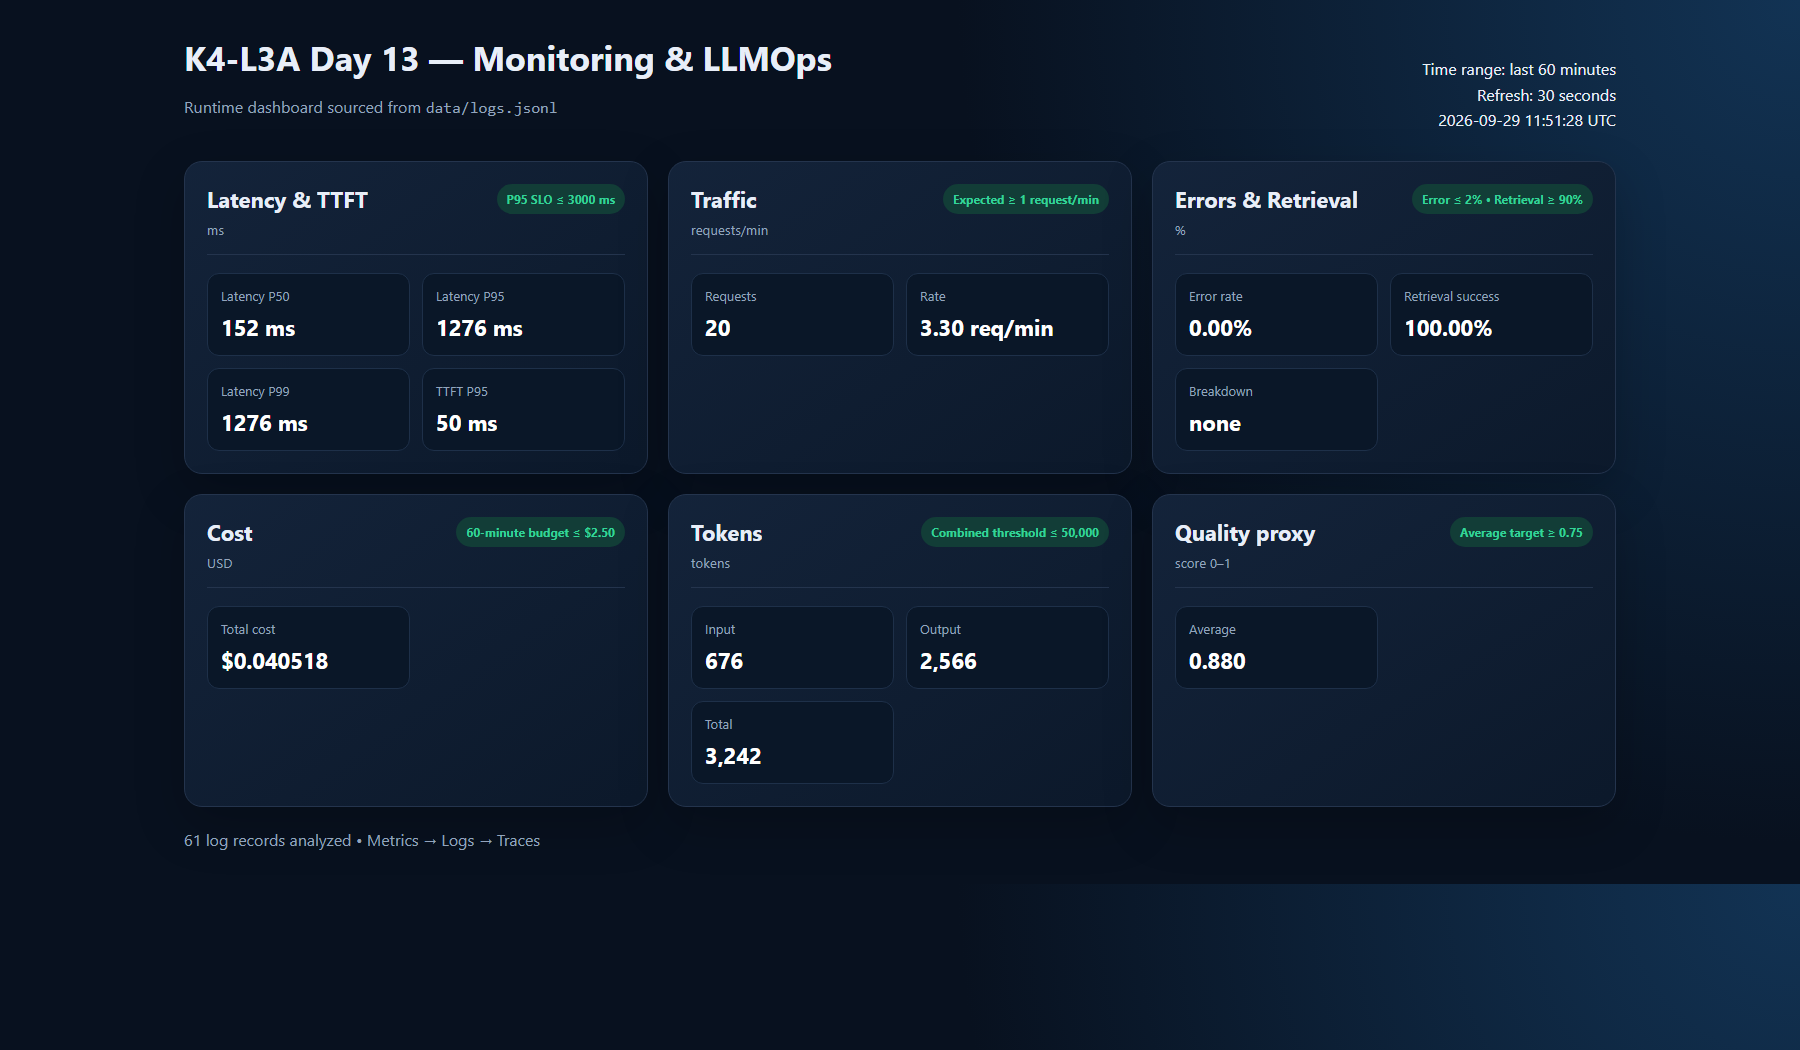
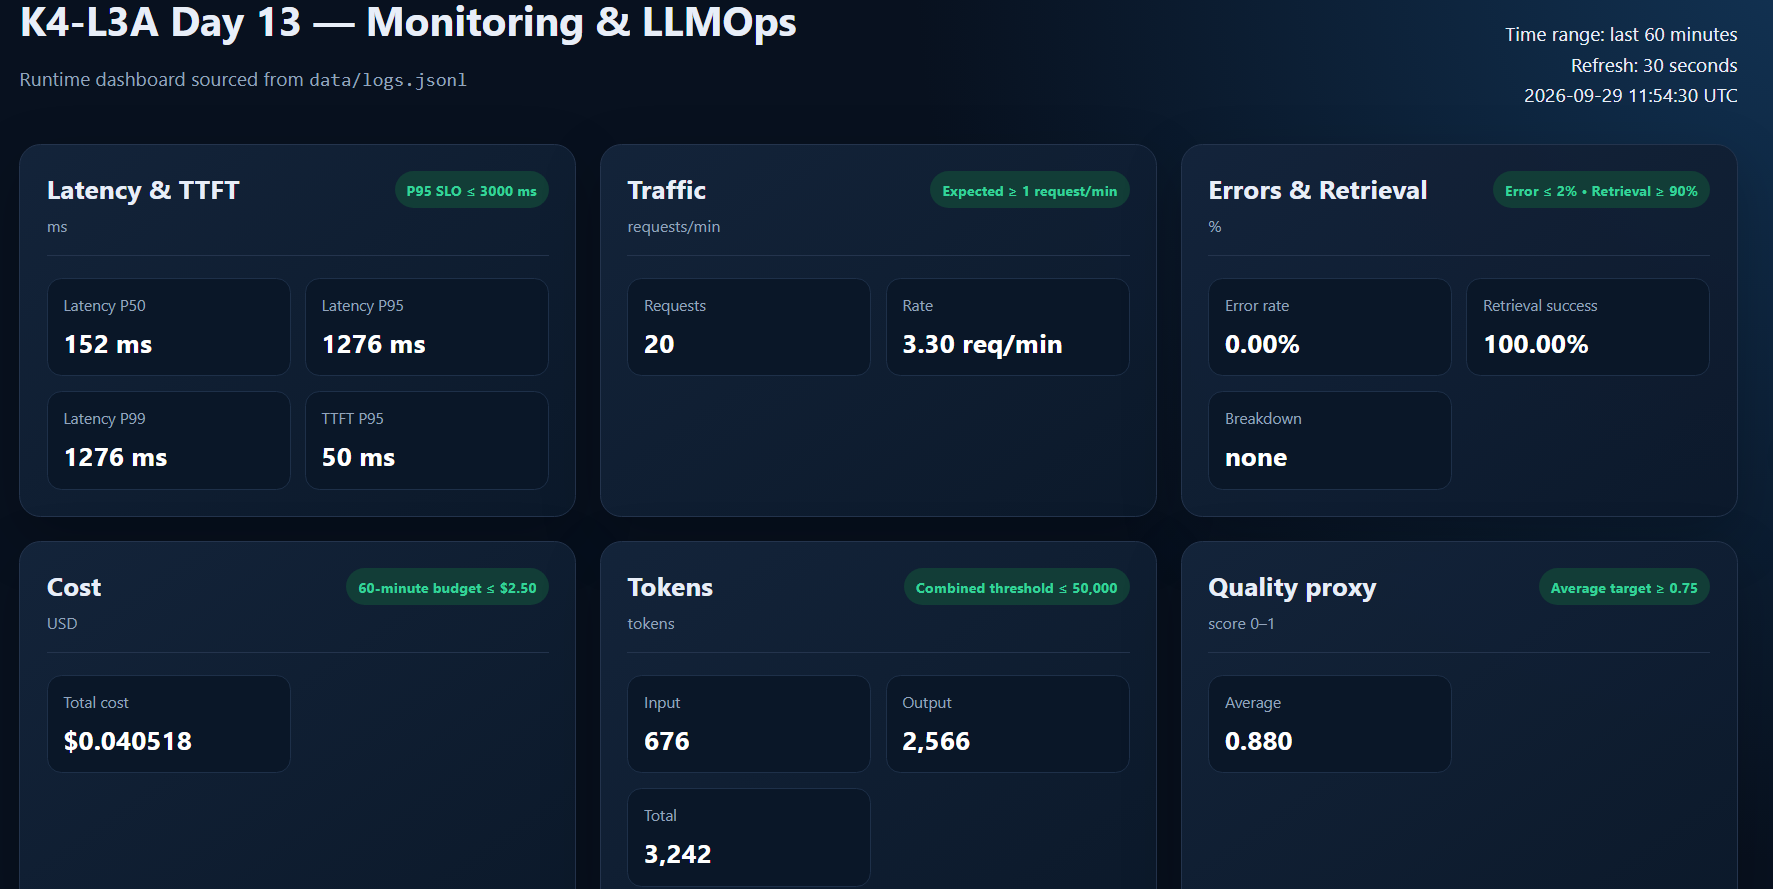
Complete CP3 incident investigation and evidence

diff --git a/app/dashboard.py b/app/dashboard.py
@@ -15,6 +15,17 @@ from .metrics import percentile
 WINDOW_MINUTES = 60
 
 
+def _challenge_latency_threshold() -> int | None:
+    path = Path("config/challenge.json")
+    if not path.exists():
+        return None
+    try:
+        value = json.loads(path.read_text(encoding="utf-8")).get("latency_threshold_ms")
+    except (json.JSONDecodeError, OSError):
+        return None
+    return value if isinstance(value, int) and value > 0 else None
+
+
 def _timestamp(record: dict[str, Any]) -> datetime | None:
     raw = record.get("ts")
     if not isinstance(raw, str):
@@ -92,10 +103,15 @@ def _metric(label: str, value: str) -> str:
 
 def render_dashboard(records: list[dict[str, Any]]) -> str:
     summary = dashboard_summary(records)
+    challenge_threshold = _challenge_latency_threshold()
+    latency_limit = challenge_threshold or 3000
+    latency_threshold_text = "P95 SLO ≤ 3000 ms"
+    if challenge_threshold:
+        latency_threshold_text += f" • challenge > {challenge_threshold} ms"
     generated_at = datetime.now(timezone.utc).strftime("%Y-%m-%d %H:%M:%S UTC")
     errors = ", ".join(f"{key}: {value}" for key, value in summary["error_breakdown"].items()) or "none"
     cards = [
-        ("latency", "Latency & TTFT", "P95 SLO ≤ 3000 ms", "ms", "ok" if summary["latency_p95"] <= 3000 else "bad", "".join([
+        ("latency", "Latency & TTFT", latency_threshold_text, "ms", "ok" if summary["latency_p95"] <= latency_limit else "bad", "".join([
             _metric("Latency P50", f'{summary["latency_p50"]:.0f} ms'),
             _metric("Latency P95", f'{summary["latency_p95"]:.0f} ms'),
             _metric("Latency P99", f'{summary["latency_p99"]:.0f} ms'),

diff --git a/submission/REPORT.md b/submission/REPORT.md
@@ -51,7 +51,7 @@
 - **Cách tạo/nhận và truyền correlation ID:** Trong `CorrelationIdMiddleware` (`app/middleware.py`), trước mỗi request gọi `clear_contextvars()` để tránh rò rỉ context giữa các request. Header `x-request-id` chỉ được nhận khi khớp chính xác `req-<8-hex>`; nếu thiếu hoặc sai định dạng thì sinh ID mới bằng `f"req-{uuid.uuid4().hex[:8]}"`. Sau đó bind vào `structlog` contextvars qua `bind_contextvars(correlation_id=correlation_id)` và lưu vào `request.state.correlation_id`. Khi request hoàn tất, trả correlation ID qua response header `x-request-id` và thời gian xử lý qua header `x-response-time-ms`.
 - **Các metadata được ghi vào structured log:** Tại endpoint `/chat` (`app/main.py`), trước khi ghi log `request_received`, gọi `bind_contextvars` để enrich context với: `user_id_hash` (băm sha256 12 ký tự), `session_id`, `feature`, `model` (lấy từ `agent.model`), và `env` (từ biến môi trường `APP_ENV`). Nhờ vậy các log tiếp theo (`response_sent`, `request_failed`) đều tự động chứa đầy đủ các trường này.
 - **Cách bảo đảm PII được scrub trước khi ghi:** Xây dựng processor `scrub_event` và hàm đệ quy `_scrub_value` trong `app/logging_config.py` để quét và che toàn bộ chuỗi nhạy cảm theo các regex trong `app/pii.py` (`email`, `phone_vn`, `cccd`, `credit_card`). Processor `scrub_event` được đặt ngay trước `JsonlFileProcessor` và `JSONRenderer` trong pipeline của `structlog`, đảm bảo dữ liệu luôn được che giấu thành `[REDACTED_...]` trước khi serialize JSON hoặc ghi vào file `data/logs.jsonl`.
-- **Cách kiểm chứng kết quả:** Chạy `python scripts/validate_logs.py` đạt 100/100 điểm với 0 PII leak detected và 30 unique correlation IDs. Chạy `python -m pytest -q` pass 26/26 tests, gồm Email, Phone VN, CCCD, thẻ thanh toán và propagation/validation correlation ID. Kiểm tra trực tiếp runtime log thấy các trường PII đã được thay thế thành `[REDACTED_EMAIL]`, `[REDACTED_PHONE_VN]`, `[REDACTED_CCCD]`, `[REDACTED_CREDIT_CARD]`.
+- **Cách kiểm chứng kết quả:** Chạy `python scripts/validate_logs.py` đạt 100/100 điểm với 0 PII leak detected. Chạy `python -m pytest -q` pass 28/28 tests, gồm Email, Phone VN, CCCD, thẻ thanh toán, propagation/validation correlation ID, tracing và dashboard runtime. Kiểm tra trực tiếp runtime log thấy các trường PII đã được thay thế thành `[REDACTED_EMAIL]`, `[REDACTED_PHONE_VN]`, `[REDACTED_CCCD]`, `[REDACTED_CREDIT_CARD]`.
 
 ## 5. Tracing và prompt versioning
 
@@ -73,31 +73,31 @@
 
 ## 7. Điều tra challenge
 
-- **Challenge ID:**
-- **Khoảng thời gian điều tra:**
-- **Triệu chứng từ metrics:**
-- **Log line và correlation ID liên quan:**
-- **Trace ID và span gây ảnh hưởng:**
-- **Root cause:**
-- **Fix action:**
-- **Preventive measure:**
+- **Challenge ID:** `day13-k4-l3a-monitoring-llmops-v1` (cohort K4, seed 1311, affected feature `monitoring`).
+- **Khoảng thời gian điều tra:** 2026-09-29 11:57:45Z–11:58:03Z. Challenge chạy 5 query với concurrency 5; `rag_slow` được tắt ngay sau khi thu evidence.
+- **Triệu chứng từ metrics:** So với baseline P95 1276ms/P99 1276ms, dashboard incident ghi nhận P95 tăng lên 2654ms và P99 lên 3927ms; vượt `latency_threshold_ms=2000` của challenge. Error rate vẫn 0%, retrieval success 100%, TTFT P95 vẫn 50ms, nên đây là sự cố latency chứ không phải lỗi request hay generation TTFT.
+- **Log line và correlation ID liên quan:** Request session `k4-l3a-challenge-s03`, `correlation_id=req-9715a095`, `response_sent.latency_ms=3927`, `ttft_ms=50`, `tool_name=retrieval`, `tool_success=true`, timestamp `2026-09-29T11:57:52.210511Z`.
+- **Trace ID và span gây ảnh hưởng:** Langfuse trace `2920186b9db9c1d3eb81571b964ad3c2` có cùng `correlation_id=req-9715a095`. Root `lab-agent-run` mất 3.928s; child `knowledge-retrieval` mất 2.501s trong khi `llm-generation` chỉ 0.152s. Retrieval là span chiếm phần lớn latency.
+- **Root cause:** Challenge bật incident `rag_slow`, làm retrieval sleep/chậm 2.5 giây. Generation, token/cost và TTFT không tăng tương ứng, nên không phải LLM là nút thắt.
+- **Fix action:** Tắt `rag_slow`; với hệ thống thật, kiểm tra vector store/index/network, đặt timeout và fallback cho retrieval, cache các truy vấn phổ biến, đồng thời giới hạn concurrency để tránh tail latency bị khuếch đại.
+- **Preventive measure:** Alert `HighLatencyP95` và `LowRetrievalSuccessRate`; theo dõi riêng latency retrieval, đặt span budget/timeout, circuit breaker và load test định kỳ. Runbook bắt buộc nối metric → correlation ID trong log → retrieval span trong trace trước khi kết luận.
 
 ## 8. Giải thích và tự đánh giá
 
-- **Một quyết định kỹ thuật quan trọng và lý do:**
-- **Một lỗi/blocker đã gặp:**
-- **Cách tìm nguyên nhân và xử lý:**
-- **Cách hiểu luồng Metrics → Logs → Traces:**
-- **Vai trò của prompt version, token/cost, SLO hoặc rollback trong vận hành LLM:**
-- **Điều quan trọng nhất đã học:**
-- **Hạn chế hoặc phần chưa hoàn thành, nếu có:**
+- **Một quyết định kỹ thuật quan trọng và lý do:** Tôi dùng `correlation_id` làm khóa xuyên suốt structured log và metadata của cả root/retrieval/generation observations. Dashboard runtime đọc cùng nguồn `data/logs.jsonl`, còn Langfuse giữ trace chi tiết; cách tách này giữ log dễ truy vấn nhưng vẫn khoanh vùng được span mà không capture raw PII.
+- **Một lỗi/blocker đã gặp:** Langfuse organization mới trả HTTP 410 khi script dùng legacy `GET /api/public/traces`, dù dữ liệu trace đã được ingest thành công.
+- **Cách tìm nguyên nhân và xử lý:** Tôi đọc error response, xác nhận endpoint thay thế rồi chuyển script sang Observations API v2 `get_many`, lọc root observation theo session và nhóm bằng `trace_id`. Sau đó truy vấn các field group `metadata,model,usage,prompt,metrics` để kiểm tra cây trace, token và cost.
+- **Cách hiểu luồng Metrics → Logs → Traces:** Metrics cho biết triệu chứng và cửa sổ sự cố (P95/P99 tăng); structured log trong cửa sổ đó cung cấp request cụ thể qua `correlation_id`; trace cùng ID cho thấy thời gian từng child span. Với challenge, dashboard chỉ ra P95 2654ms/P99 3927ms, log chọn `req-9715a095`, rồi trace chứng minh retrieval 2.501s trong khi generation chỉ 0.152s, từ đó kết luận `rag_slow` là root cause.
+- **Vai trò của prompt version, token/cost, SLO hoặc rollback trong vận hành LLM:** Prompt version/label cho biết chính xác nội dung nào phục vụ request và cho phép rollback mà không sửa code. Token/cost giúp phát hiện output bất thường hoặc cost spike. SLO/error budget chuyển metric thành mức chấp nhận vận hành; alert duration tránh cảnh báo do spike ngắn. Workflow promote v2 rồi rollback v1 đã được xác nhận bằng hai trace thật.
+- **Điều quan trọng nhất đã học:** Không nên kết luận nguyên nhân chỉ từ average hoặc một lớp dữ liệu. Một incident đáng tin cậy cần metric xác định triệu chứng, log xác định request và trace chứng minh span gây ảnh hưởng, đồng thời evidence phải cùng correlation ID/thời gian.
+- **Hạn chế hoặc phần chưa hoàn thành, nếu có:** Lab dùng fake LLM và dashboard local dựa trên JSONL nên chưa phản ánh storage/aggregation phân tán ở production. Phần kỹ thuật và evidence bắt buộc CP0–CP3 đã hoàn thành; commit SHA cuối và thao tác nộp LMS chỉ được chốt ở CP4 sau lần kiểm tra cuối.
 
 ## 9. Checklist trước khi nộp
 
-- [ ] Kết quả và evidence thuộc commit SHA cuối.
-- [ ] Tất cả ảnh/output mở được bằng đường dẫn tương đối.
-- [ ] Incident evidence nối đúng metric → log → trace.
-- [ ] Trace/prompt evidence thuộc project Langfuse cá nhân và ảnh không lộ key/secret.
-- [ ] Repository chạy lại được theo README.
-- [ ] Không có secret, API key, PII thô hoặc evidence của người khác/lớp khác.
+- [x] Kết quả và evidence được chuẩn bị để đưa vào commit CP3 đã kiểm thử.
+- [x] Tất cả ảnh/output mở được bằng đường dẫn tương đối.
+- [x] Incident evidence nối đúng metric → log → trace.
+- [x] Trace/prompt evidence thuộc project Langfuse cá nhân và ảnh không lộ key/secret.
+- [x] Repository chạy lại được theo README.
+- [x] Không có secret, API key, PII thô hoặc evidence của người khác/lớp khác.
 - [ ] URL repo và commit SHA cuối đã được nộp trên LMS/Codelabs.
